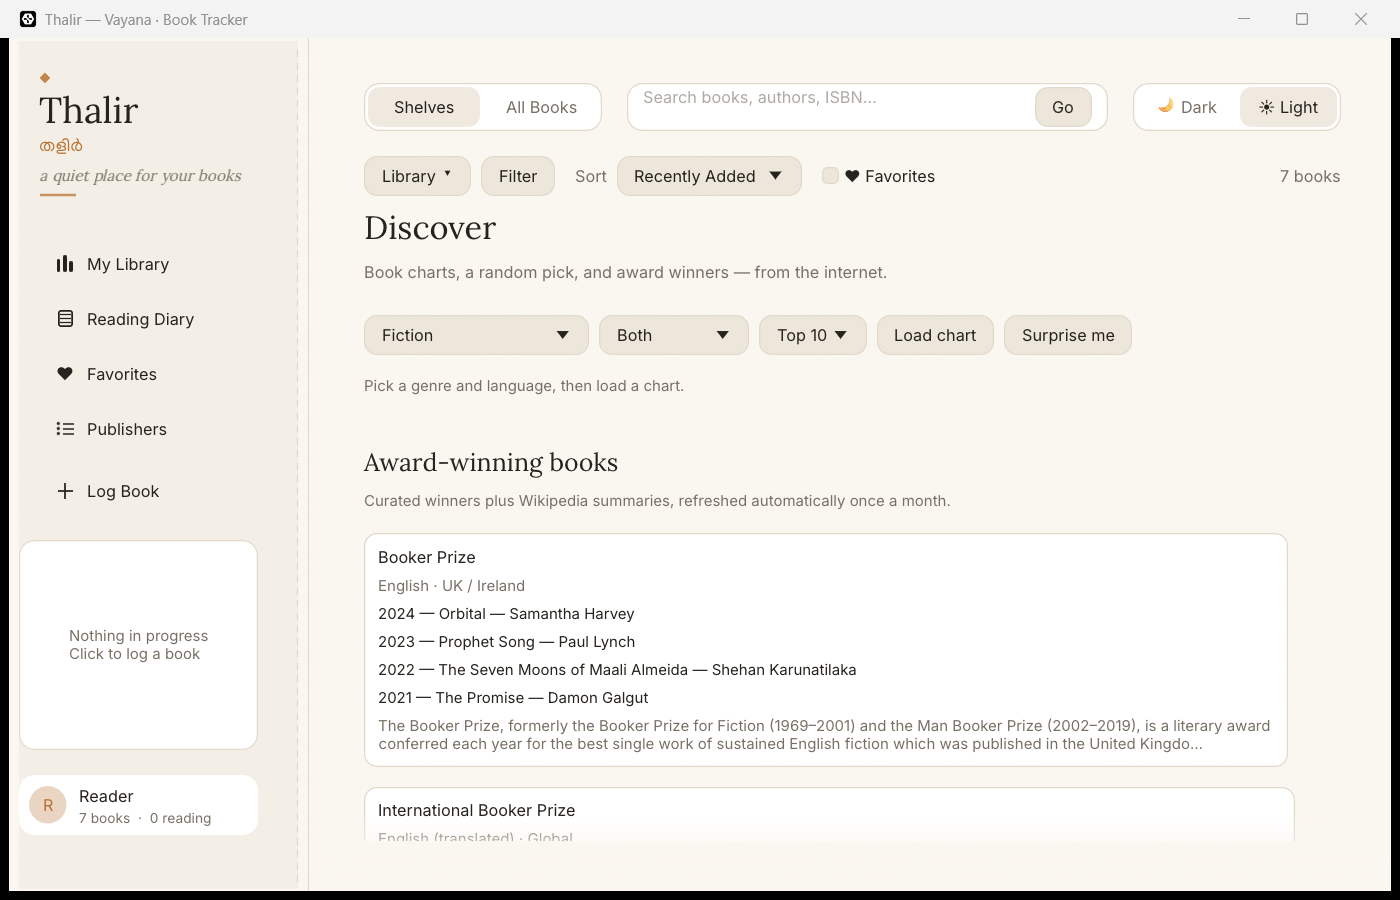
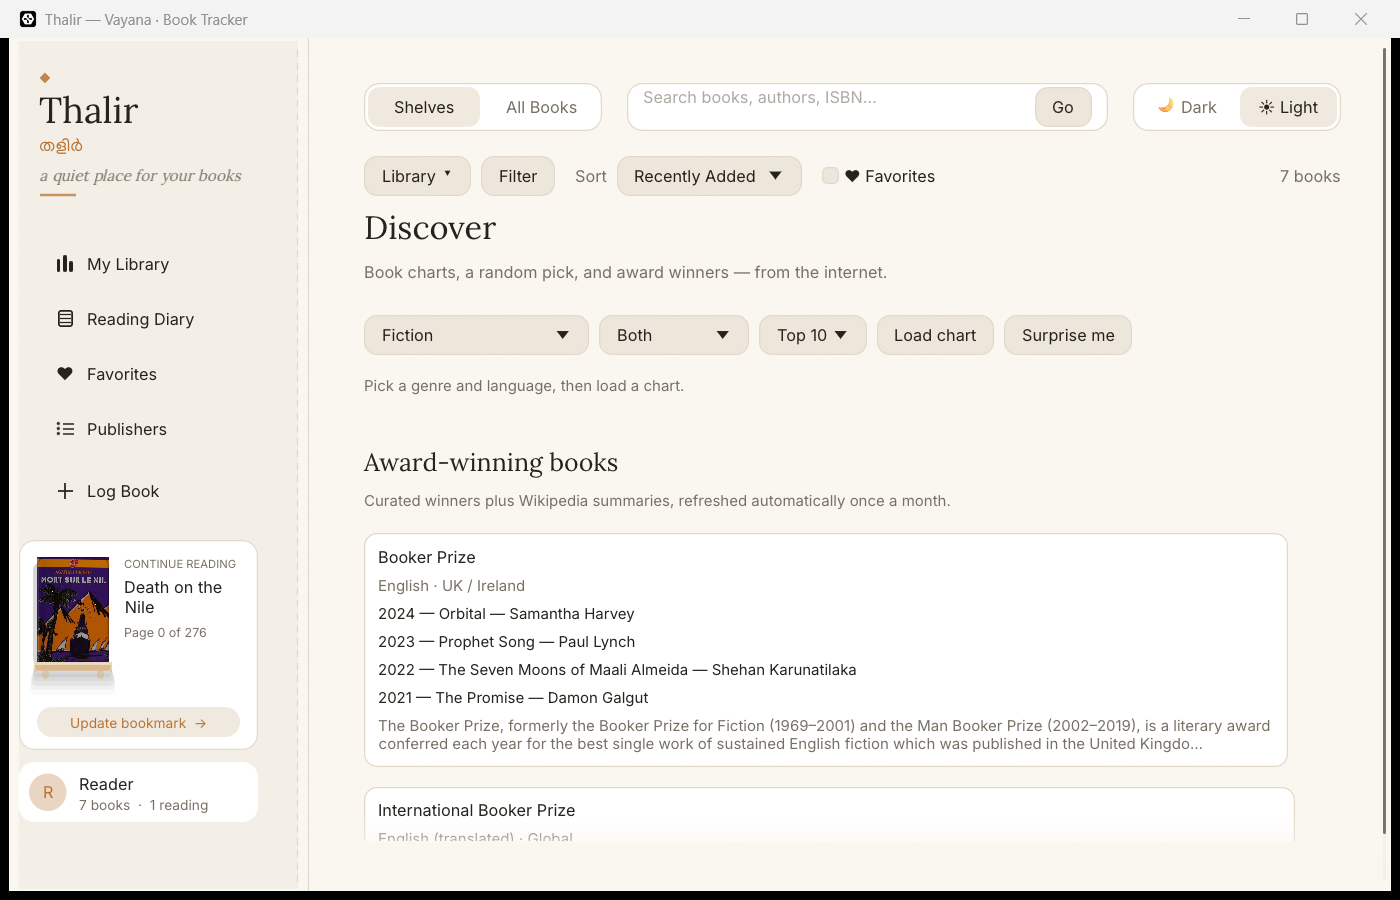
Refresh README screenshots with current UI

Changed region(s): [[0.0, 0.5911, 0.1843, 0.9333], [0.9829, 0.0622, 1.0, 0.9022]]

diff --git a/README.md b/README.md
@@ -94,9 +94,13 @@ Prebuilt binaries are available on the [Releases](../../releases) page.
 
 ## Screenshots
 
-| Library shelves | Discover charts | Reader profile |
+| Library shelves | All Books grid | Book detail & online info |
 |---|---|---|
-| ![Shelves](docs/screenshots/library.png) | ![Discover](docs/screenshots/discover.png) | ![Profile](docs/screenshots/profile.png) |
+| ![Shelves](docs/screenshots/library.png) | ![All Books](docs/screenshots/all-books.png) | ![Book detail](docs/screenshots/book-detail.png) |
+
+| Discover charts | Reader profile |
+|---|---|
+| ![Discover](docs/screenshots/discover.png) | ![Profile](docs/screenshots/profile.png) |
 
 ---
 
